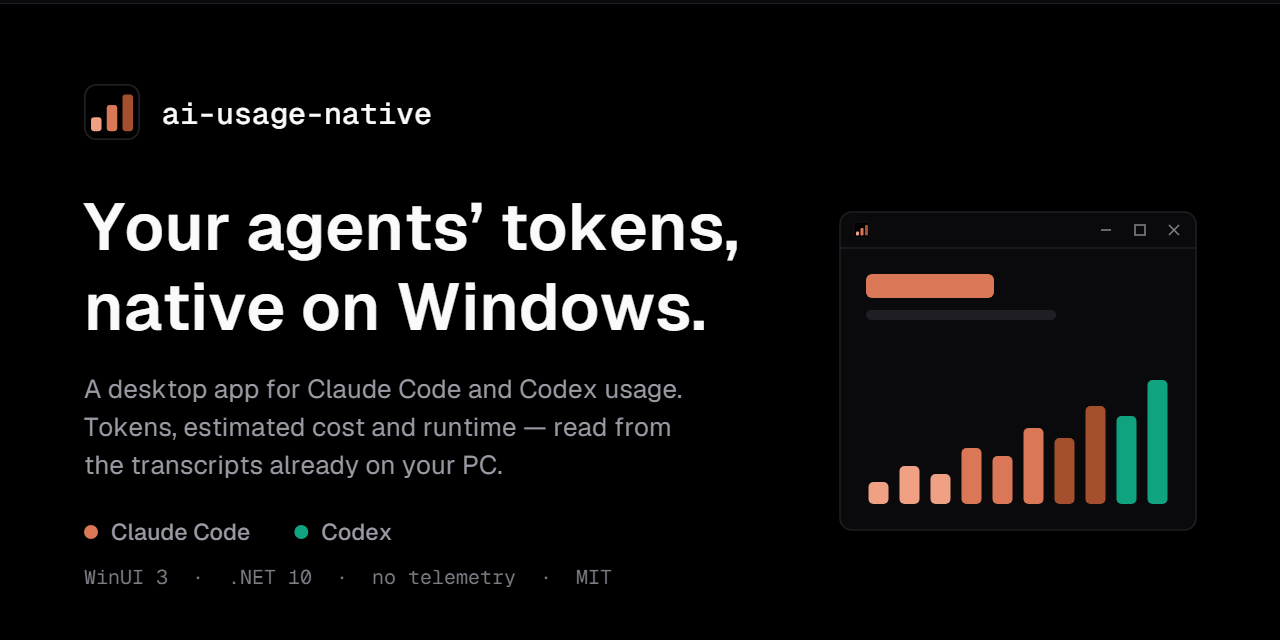
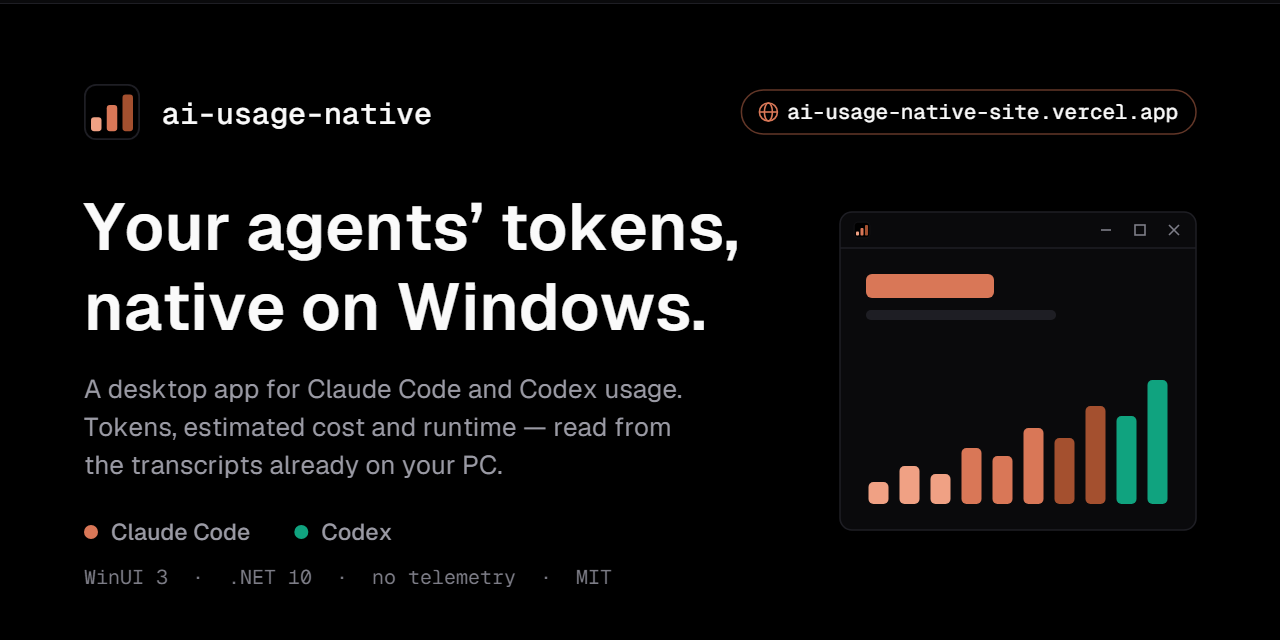
docs: the project site in the README badges and the social preview

Changed region(s): [[0.5938, 0.1562, 0.9375, 0.2188]]

diff --git a/tools/make-social-preview.cs b/tools/make-social-preview.cs
@@ -54,6 +54,7 @@ fill.Color = border; canvas.DrawRect(0, 3, W, 1, fill);
 // Wordmark: the app's icon and the repository's name.
 DrawSvg(canvas, Path.Combine(assets, "app-icon.svg"), Margin, Margin, 56);
 Text("ai-usage-native", Margin + 56 + 22, Margin + 40, Font(mono, 500, 30), text);
+SitePill("ai-usage-native-site.vercel.app", W - Margin, Margin + 28);
 
 // Every row is placed from a named baseline rather than stacked on the one
 // above, so moving one cannot silently shunt the rest into each other.
@@ -104,6 +105,27 @@ float DotLabel(float x, float baseline, SKColor colour, string label)
     canvas.DrawCircle(x + 7, baseline - 8, 7, paint);
     Text(label, x + 27, baseline, chip, muted);
     return x + 27 + chip.MeasureText(label) + 44;
+}
+
+// The project site's address in an outlined pill with a globe, right-aligned
+// to `right` and centred on `centreY`, so the card says where to see more.
+void SitePill(string url, float right, float centreY)
+{
+    var font = Font(mono, 450, 21);
+    const float padX = 18, icon = 18, iconGap = 10, height = 44;
+    var width = padX + icon + iconGap + font.MeasureText(url) + padX;
+    var rect = new SKRect(right - width, centreY - height / 2, right, centreY + height / 2);
+    using var paint = new SKPaint { IsAntialias = true, Style = SKPaintStyle.Stroke, StrokeWidth = 1.5f, Color = claude.WithAlpha(115) };
+    canvas.DrawRoundRect(rect, height / 2, height / 2, paint);
+
+    // The globe: a circle, the equator and one meridian's two arcs.
+    var cx = rect.Left + padX + icon / 2;
+    paint.Color = claude; paint.StrokeWidth = 1.6f;
+    canvas.DrawCircle(cx, centreY, icon / 2, paint);
+    canvas.DrawLine(cx - icon / 2, centreY, cx + icon / 2, centreY, paint);
+    canvas.DrawOval(new SKRect(cx - icon / 4.5f, centreY - icon / 2, cx + icon / 4.5f, centreY + icon / 2), paint);
+
+    Text(url, rect.Left + padX + icon + iconGap, centreY + 7, font, text);
 }
 
 // A small app window: title bar, caption buttons, two placeholder text lines

diff --git a/README.md b/README.md
@@ -3,6 +3,7 @@
 [![CI](https://github.com/naimulnashid/ai-usage-native/actions/workflows/ci.yml/badge.svg)](https://github.com/naimulnashid/ai-usage-native/actions/workflows/ci.yml)
 [![Latest release](https://img.shields.io/github/v/release/naimulnashid/ai-usage-native)](https://github.com/naimulnashid/ai-usage-native/releases/latest)
 [![MIT license](https://img.shields.io/github/license/naimulnashid/ai-usage-native)](LICENSE)
+[![Project site](https://img.shields.io/website?url=https%3A%2F%2Fai-usage-native-site.vercel.app&label=project%20site&up_message=online&down_message=offline)](https://ai-usage-native-site.vercel.app/)
 
 A native Windows app that shows how much **Claude Code** and **Codex** you use:
 tokens, estimated cost and approximate runtime, overall, per project and per
